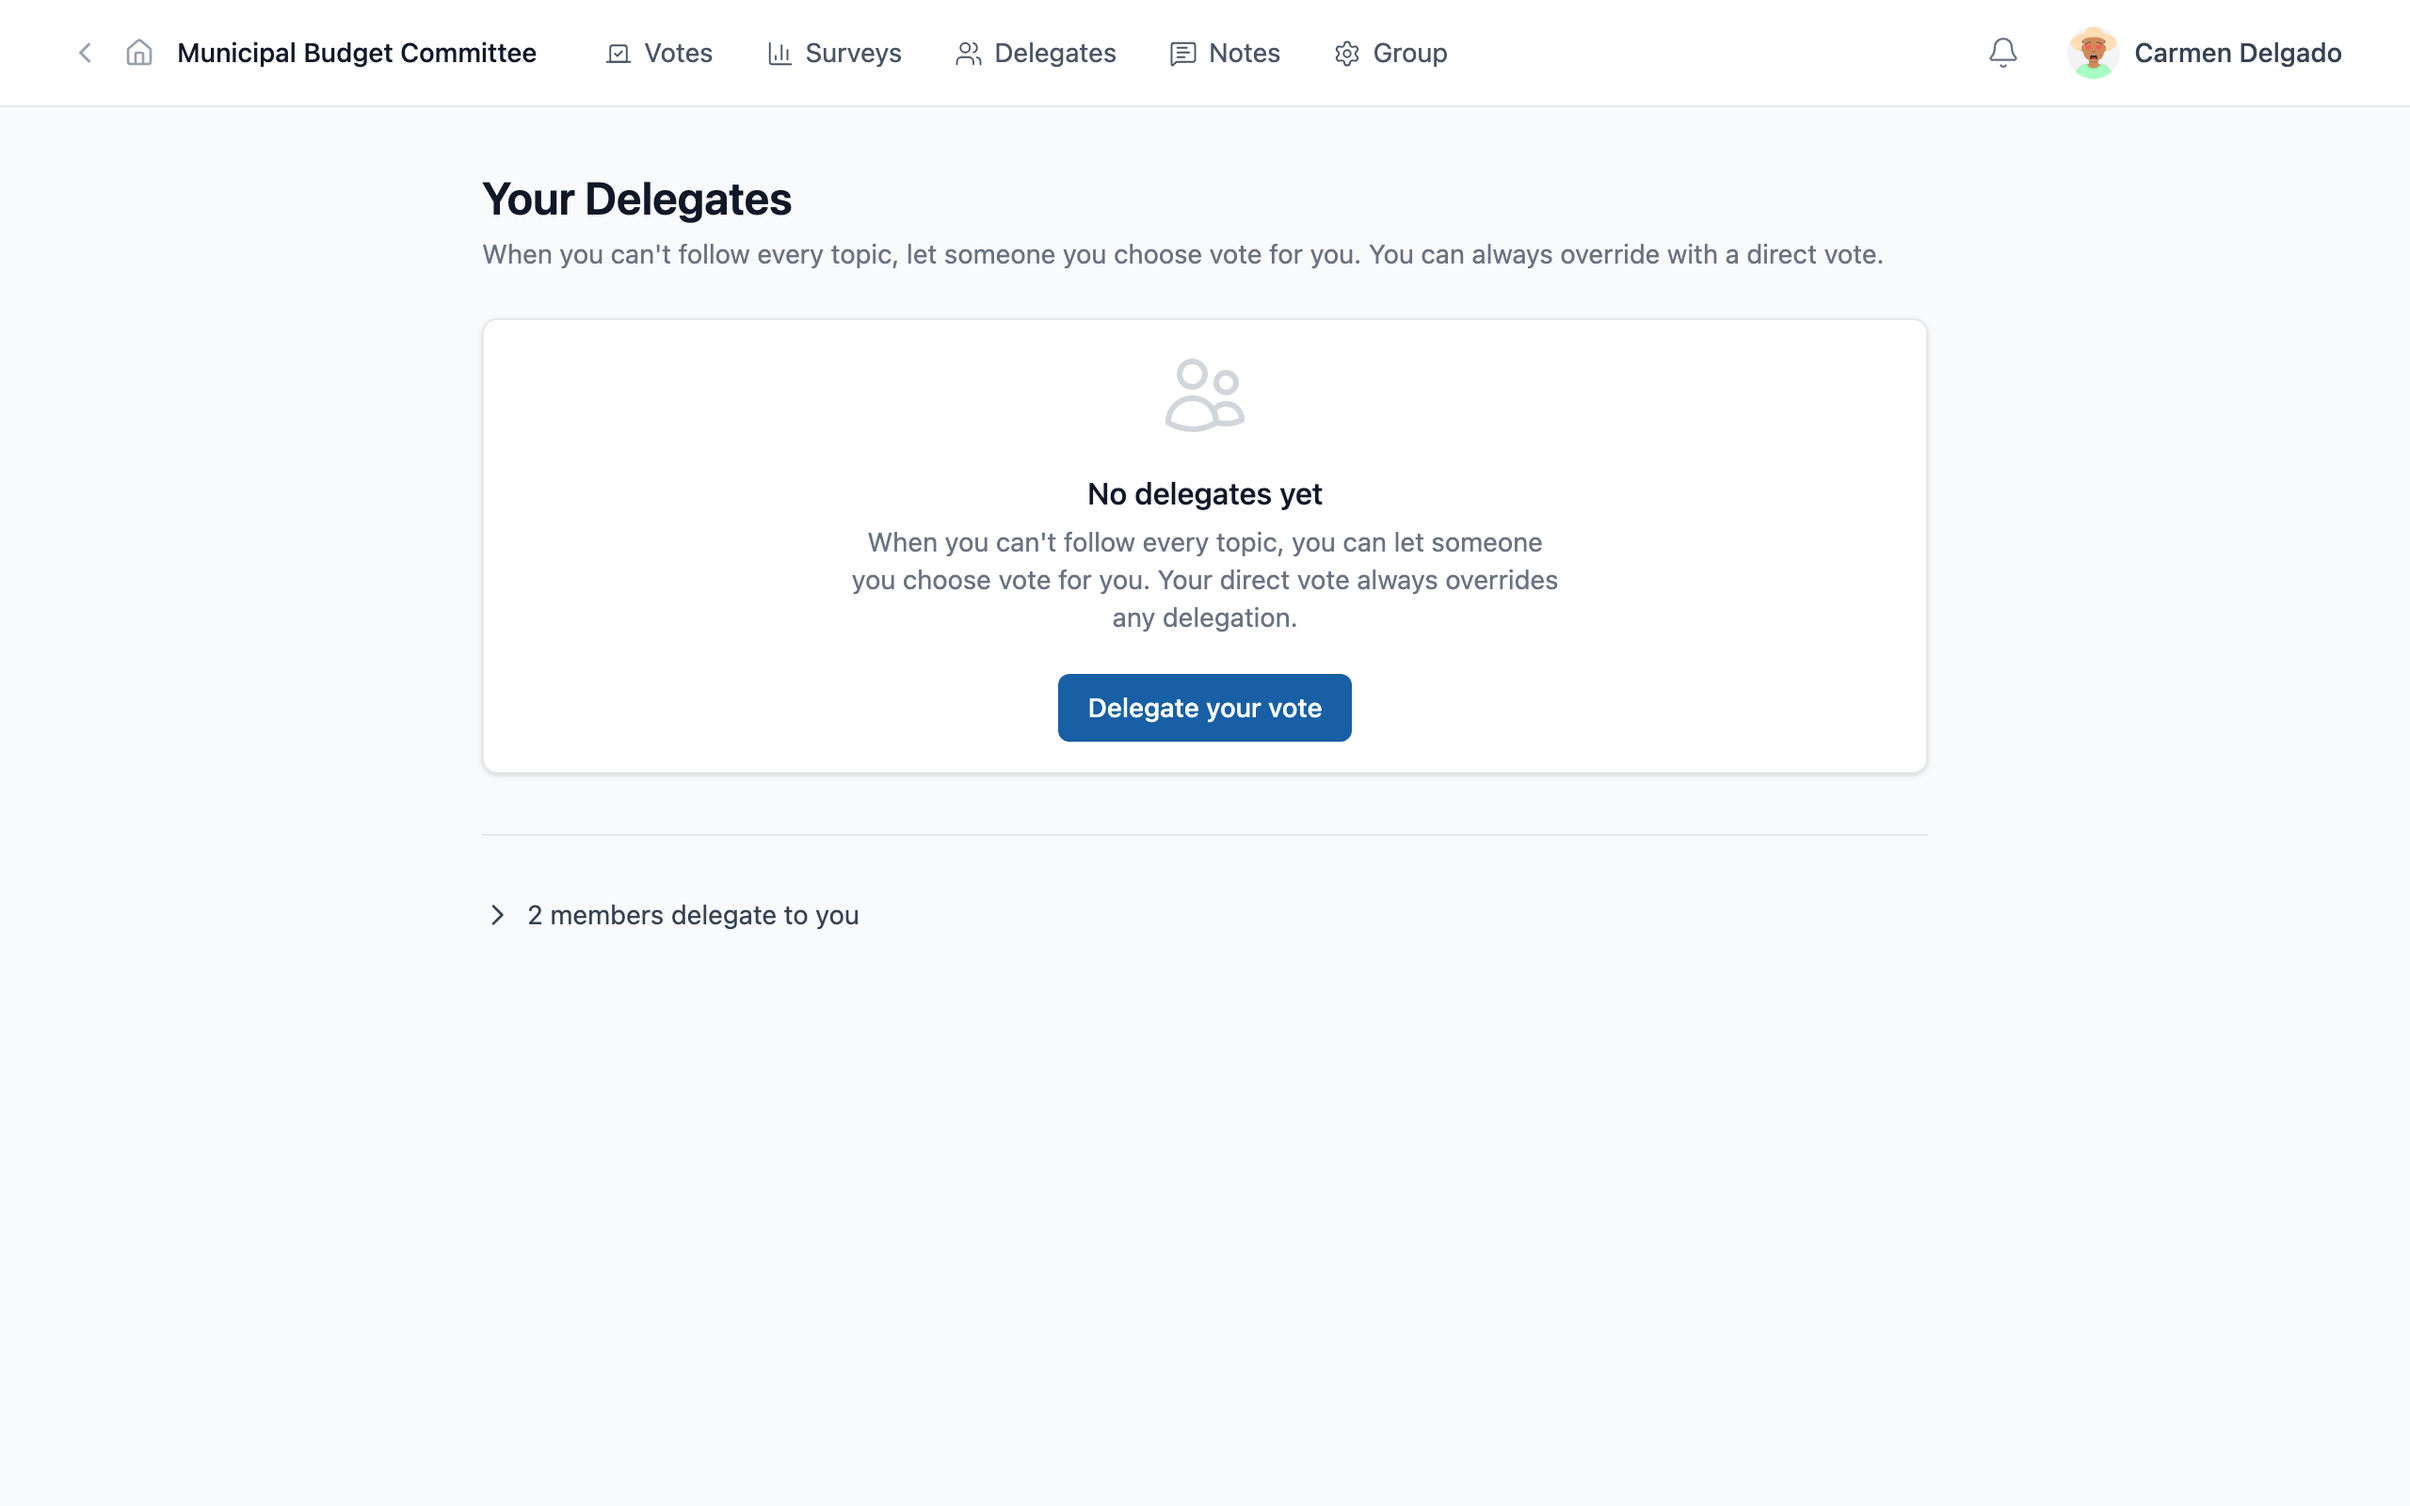
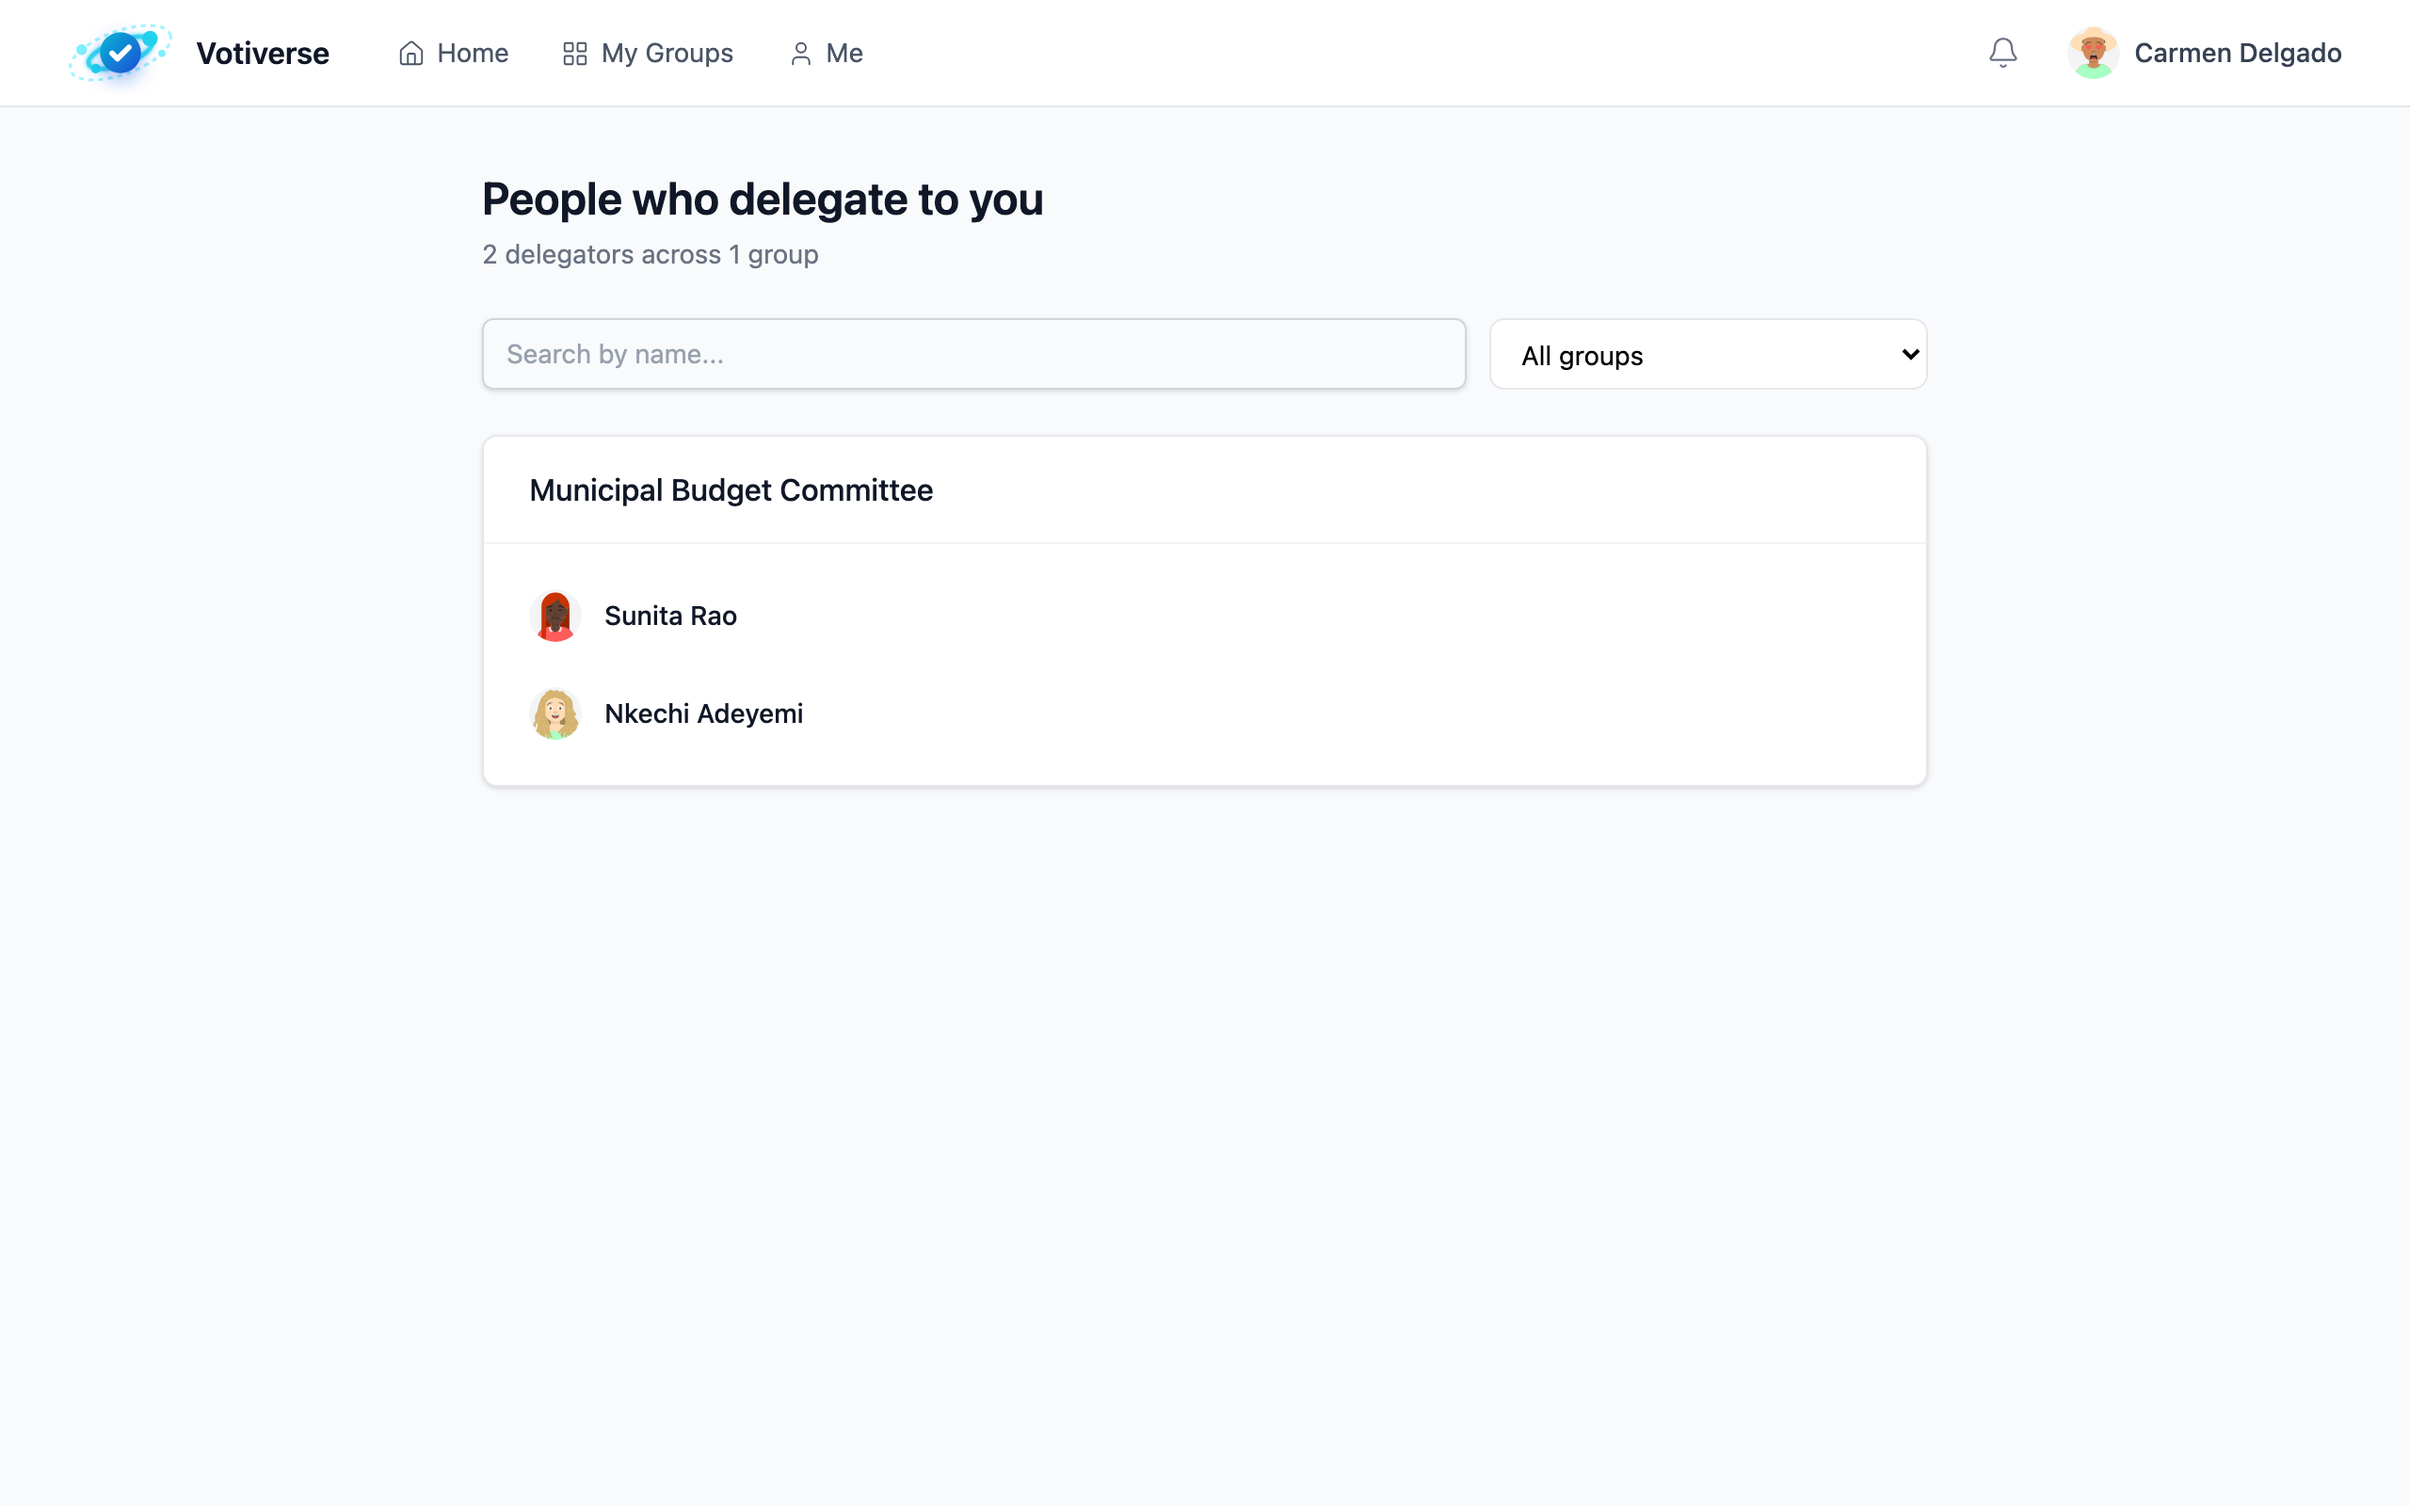
fix(case-study): update delegation screenshot to use profile/delegators page
The incoming delegations section was removed from the Delegates page
(it now lives on /profile/delegators). Updated screenshot 03 to
capture the delegators profile page instead, and updated the README
text to reference the avatar menu shortcut.

diff --git a/case-studies/neighborhood-budget-council/take-screenshots.ts b/case-studies/neighborhood-budget-council/take-screenshots.ts
@@ -76,8 +76,8 @@ async function main() {
   await page.goto(`${BASE}/assembly/${MUN_ID}`);
   await shot(page, "02-municipal-dashboard");
 
-  // 03. Carmen's delegations — she receives delegations from others
-  await page.goto(`${BASE}/assembly/${MUN_ID}/delegations`);
+  // 03. Carmen's delegators — who trusts her with their vote (profile page)
+  await page.goto(`${BASE}/profile/delegators`);
   await shot(page, "03-carmen-delegations-received");
 
   // ── ACT 2: Nkechi's Topic-Scoped Delegation ──────────────────

diff --git a/case-studies/neighborhood-budget-council/README.md b/case-studies/neighborhood-budget-council/README.md
@@ -29,9 +29,9 @@ When Carmen logs into her dashboard, she sees the community's governance at a gl
 
 ![Carmen's municipal dashboard showing delegation and voting stats](images/02-municipal-dashboard.png)
 
-On the delegations page, Carmen can see who trusts her with their vote:
+From the avatar menu in the top right, Carmen can open **Delegators** to see who trusts her with their vote:
 
-![Carmen's delegation view showing incoming delegations](images/03-carmen-delegations-received.png)
+![Carmen's delegators page showing who delegates to her](images/03-carmen-delegations-received.png)
 
 Carmen doesn't just vote for herself — when she votes on an infrastructure issue, her vote carries the weight of everyone who delegated to her. This is the core of liquid democracy: **expertise flows to where it's needed**, without requiring a formal election for every committee.
 
